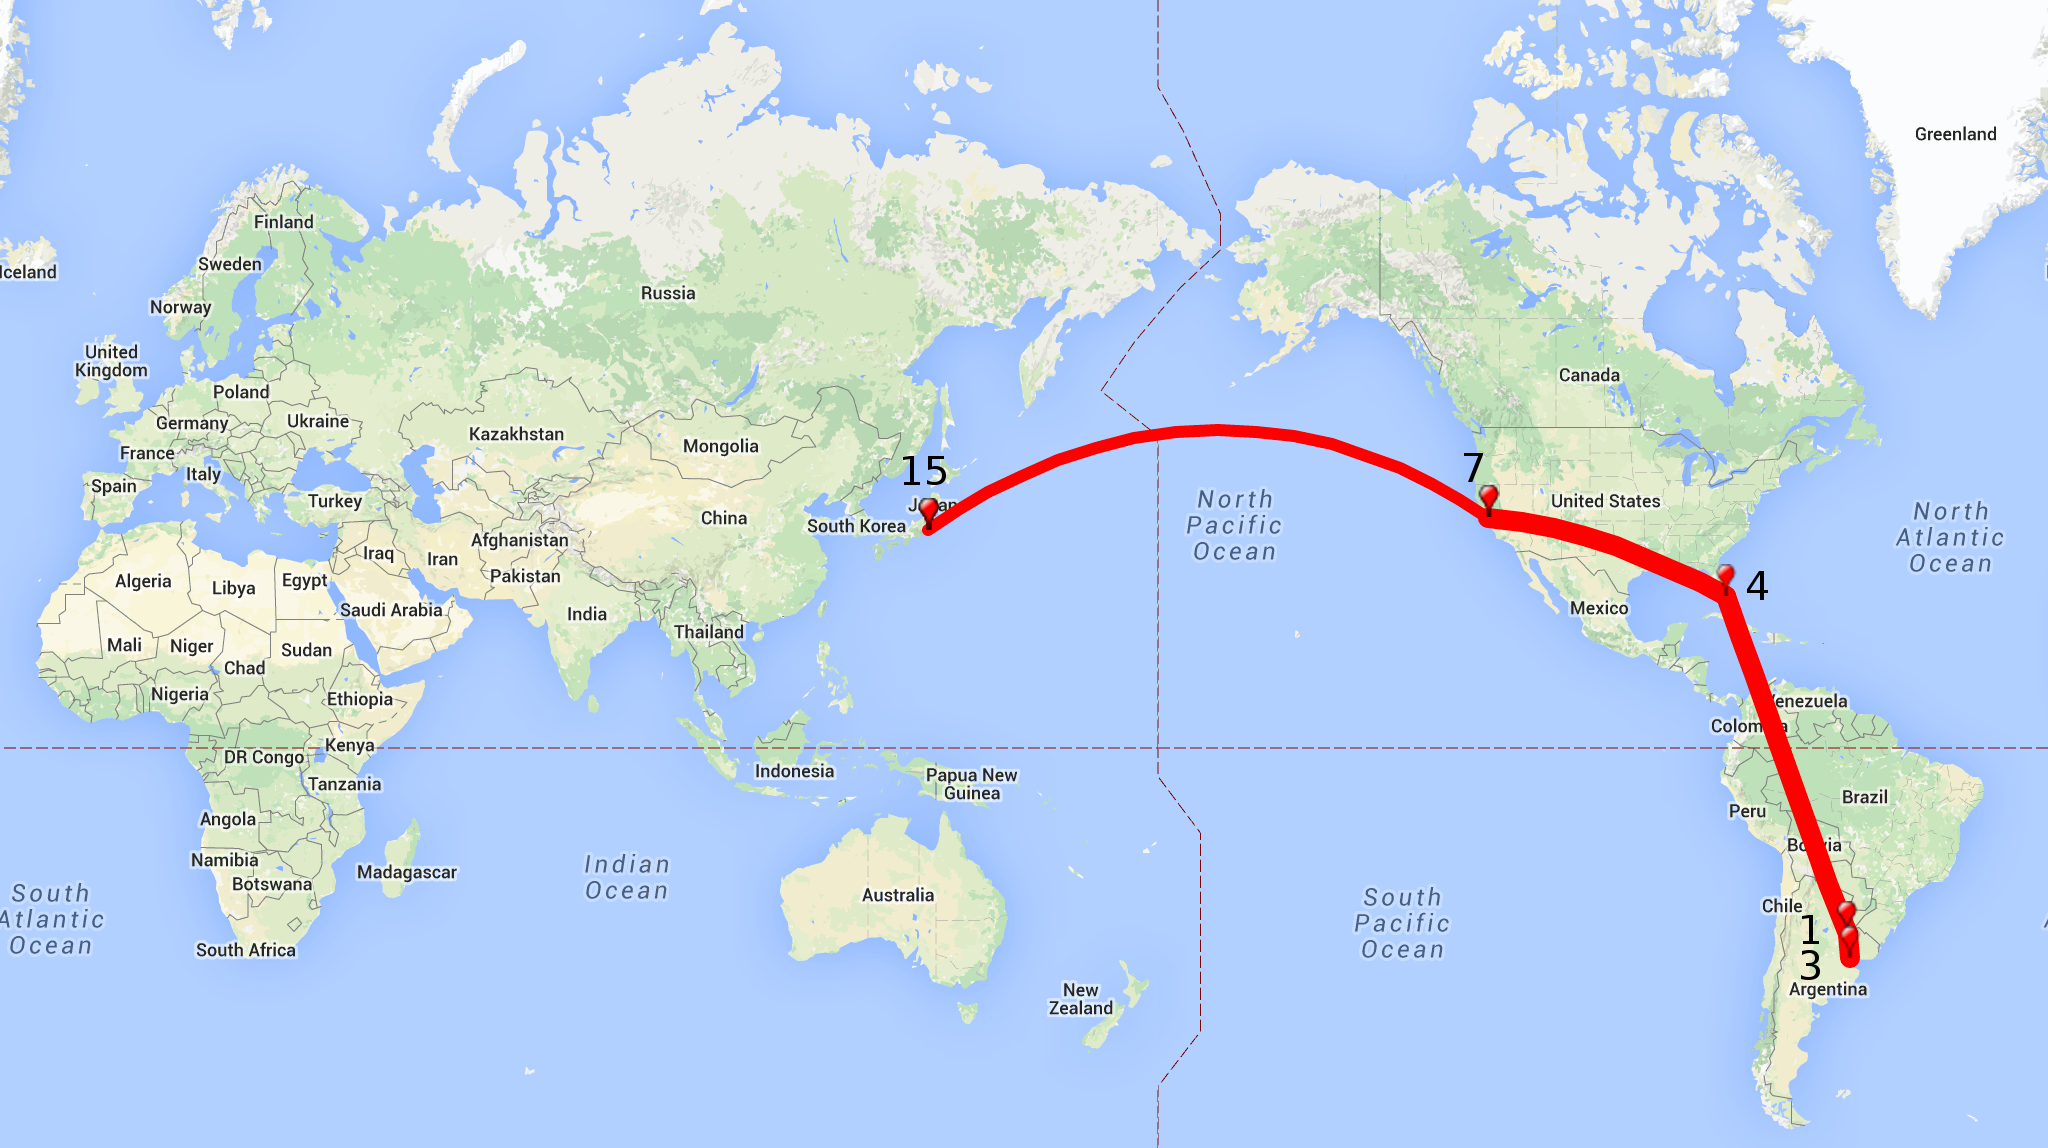
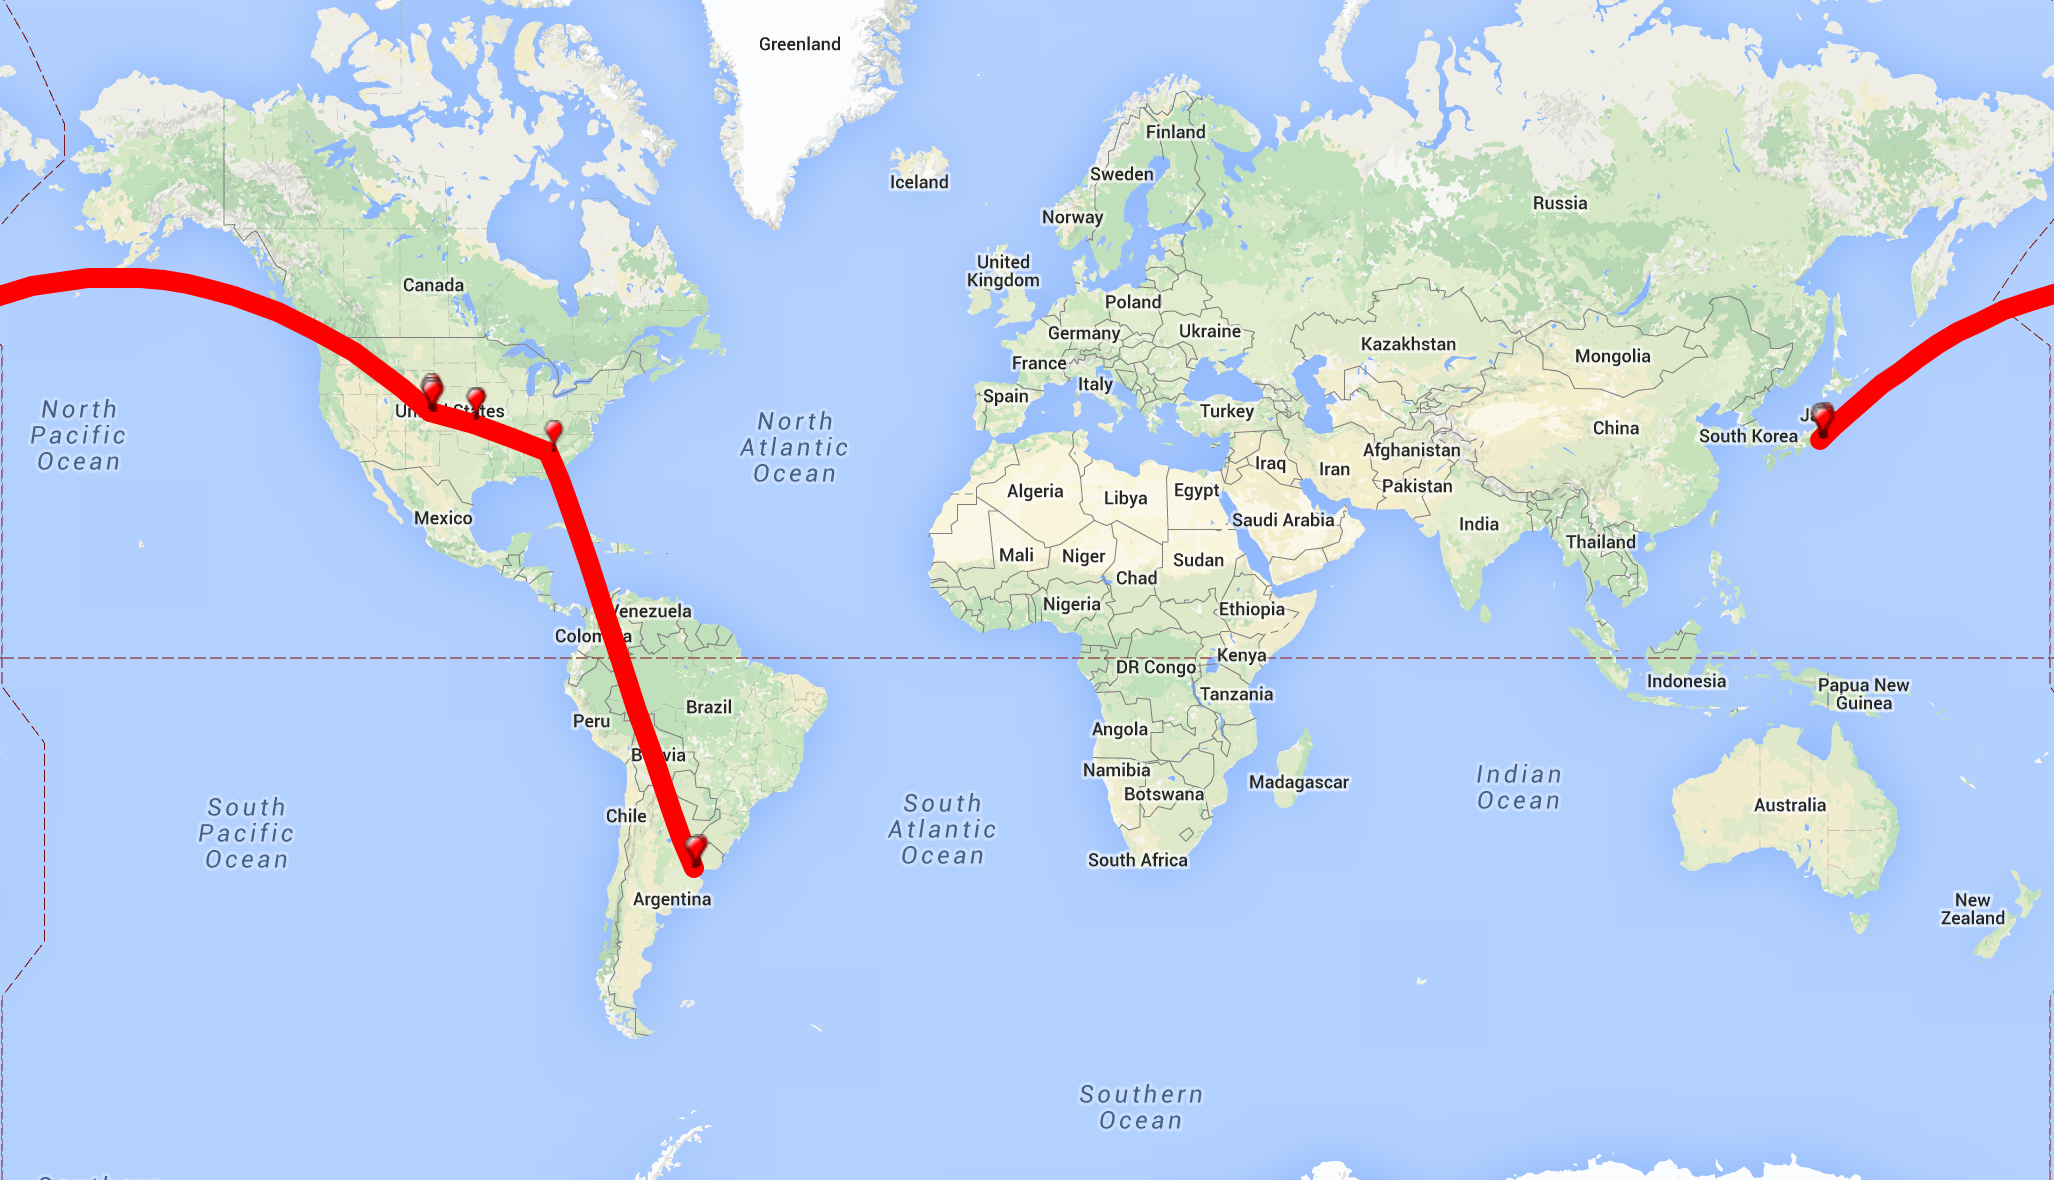
mapas

diff --git a/src/functions.py b/src/functions.py
@@ -33,7 +33,7 @@ def plot_routes(input_file, output_file):
 
     previous_node = (-34.5450875, -58.4395502)
 
-    hopn = 1
+    hopn = 0
 
     route_map.addpoint(previous_node[0], previous_node[1], title=str(hopn))
                 
